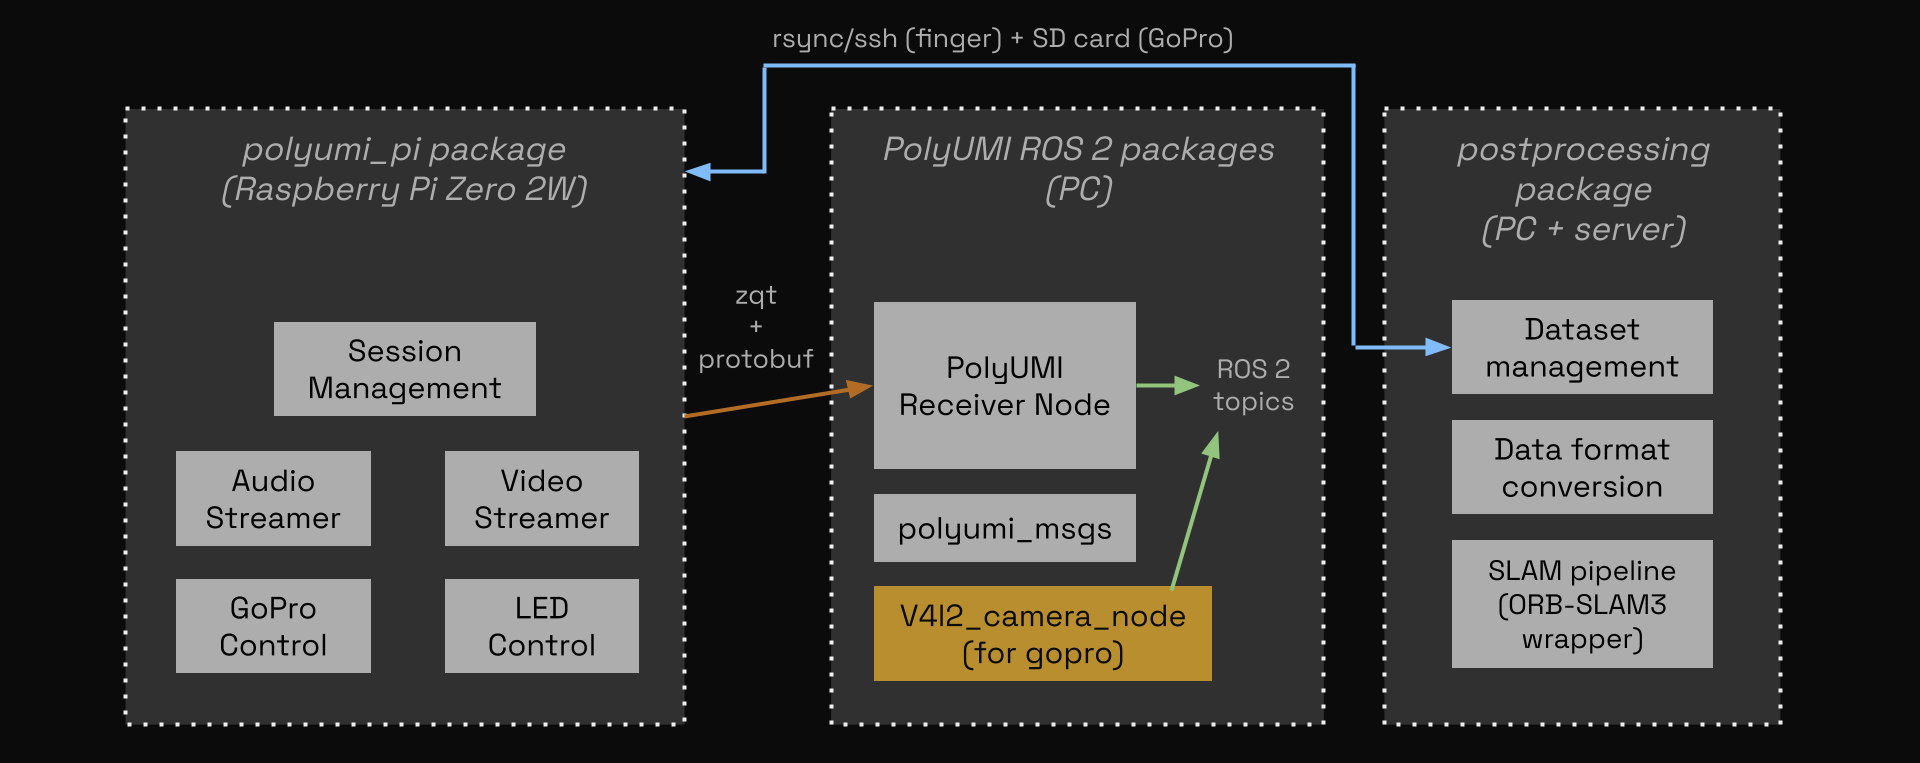
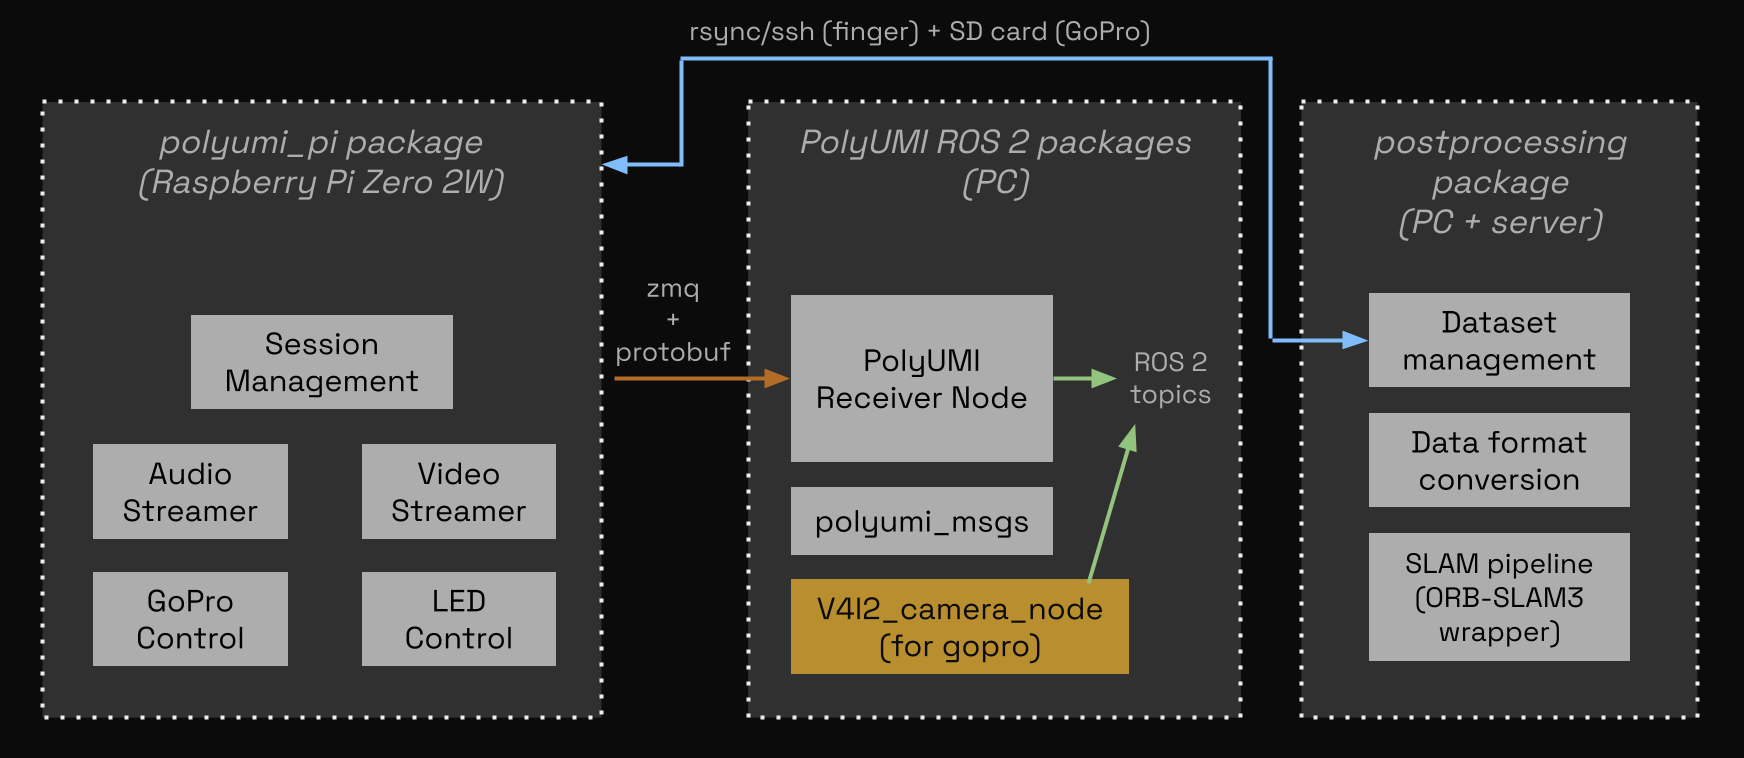
added electrical more

Changed region(s): [[0.0, 0.0303, 0.9908, 0.971], [0.4644, 0.3641, 0.5883, 0.3945]]

diff --git a/_projects/PolyUMI.md b/_projects/PolyUMI.md
@@ -207,16 +207,14 @@ Then, an embodiment-specific IK solver can be used to map this pose trajectory t
   - The remaining parts of the original UMI (core trigger mechanism + GoPro mount + finger rail) were left identical to the original; this also enables existing users of the UMI to switch out only the fingers to switch to the PolyUMI system.
 
 ### Electrical
-<div style="display: grid; grid-template-columns: repeat(auto-fit, minmax(300px, 1fr)); gap: 1rem; max-width: 800px; margin: 0 auto;">
-  <figure class="project-figure">
-    <a href="#" class="lightbox-img"><img src="/assets/msr/polyumi/led_circuit_detail.JPG" alt="LED circuit detail"/></a>
-    <figcaption>Quick-and-dirty LED driver circuit. </figcaption>
-  </figure>
-  <figure class="project-figure">
+<figure class="project-figure">
+  <div style="display: grid; grid-template-columns: repeat(3, minmax(0, 1fr)); gap: 1rem; max-width: 1000px; margin: 0 auto;">
     <a href="#" class="lightbox-img"><img src="/assets/msr/polyumi/led_circuit_diagram.JPG" alt="LED circuit diagram" /></a>
-    <figcaption>The RPi Zero 2W's 16mA GPIO pins can't drive the LED strip's 80mA load directly, so PWM control of a MOSFET is used, powered by the RPi's 5V rail.</figcaption>
-  </figure>
-</div>
+    <a href="#" class="lightbox-img"><img src="/assets/msr/polyumi/led_circuit_detail.JPG" alt="LED circuit detail"/></a>
+    <a href="#" class="lightbox-img"><img src="/assets/msr/polyumi/finger_electrical_detail.jpg" alt="Electrical system diagram" /></a>
+  </div>
+  <figcaption>Quick-and-dirty LED driver circuit. The RPi Zero 2W's 16mA GPIO pins can't drive the LED strip's 80mA load directly, so PWM control of a MOSFET is used, powered by the RPi's 5V rail.</figcaption>
+</figure>
 
 - TODO add system-level block diagram showing protocols & interconnects.
 
@@ -225,8 +223,9 @@ Then, an embodiment-specific IK solver can be used to map this pose trajectory t
 	{% include github-button.html url="https://github.com/cwoodhayes/polyumi" label="PolyUMI GitHub"%}
 </div>
 
+This is substantially explored above.
+
 - Add CLI screenshots for both recording and postprocessing flows.
-- Add Foxglove screenshots + shared visualization config.
 
 <figure class="project-figure">
   <div style="display: grid; grid-template-columns: repeat(auto-fit, minmax(300px, 1fr)); gap: 1rem;">